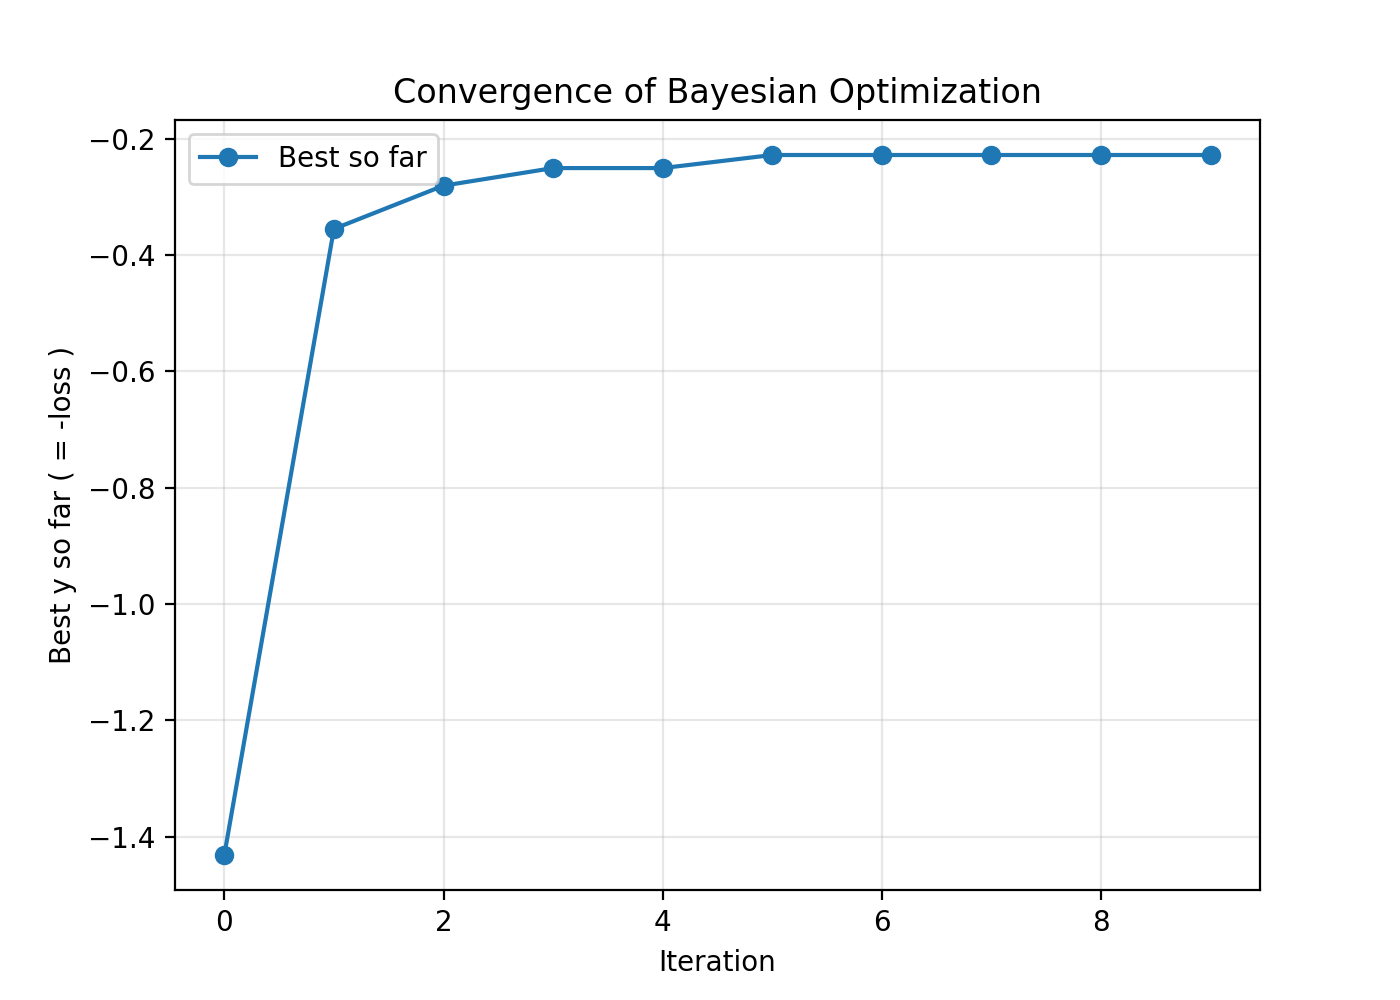
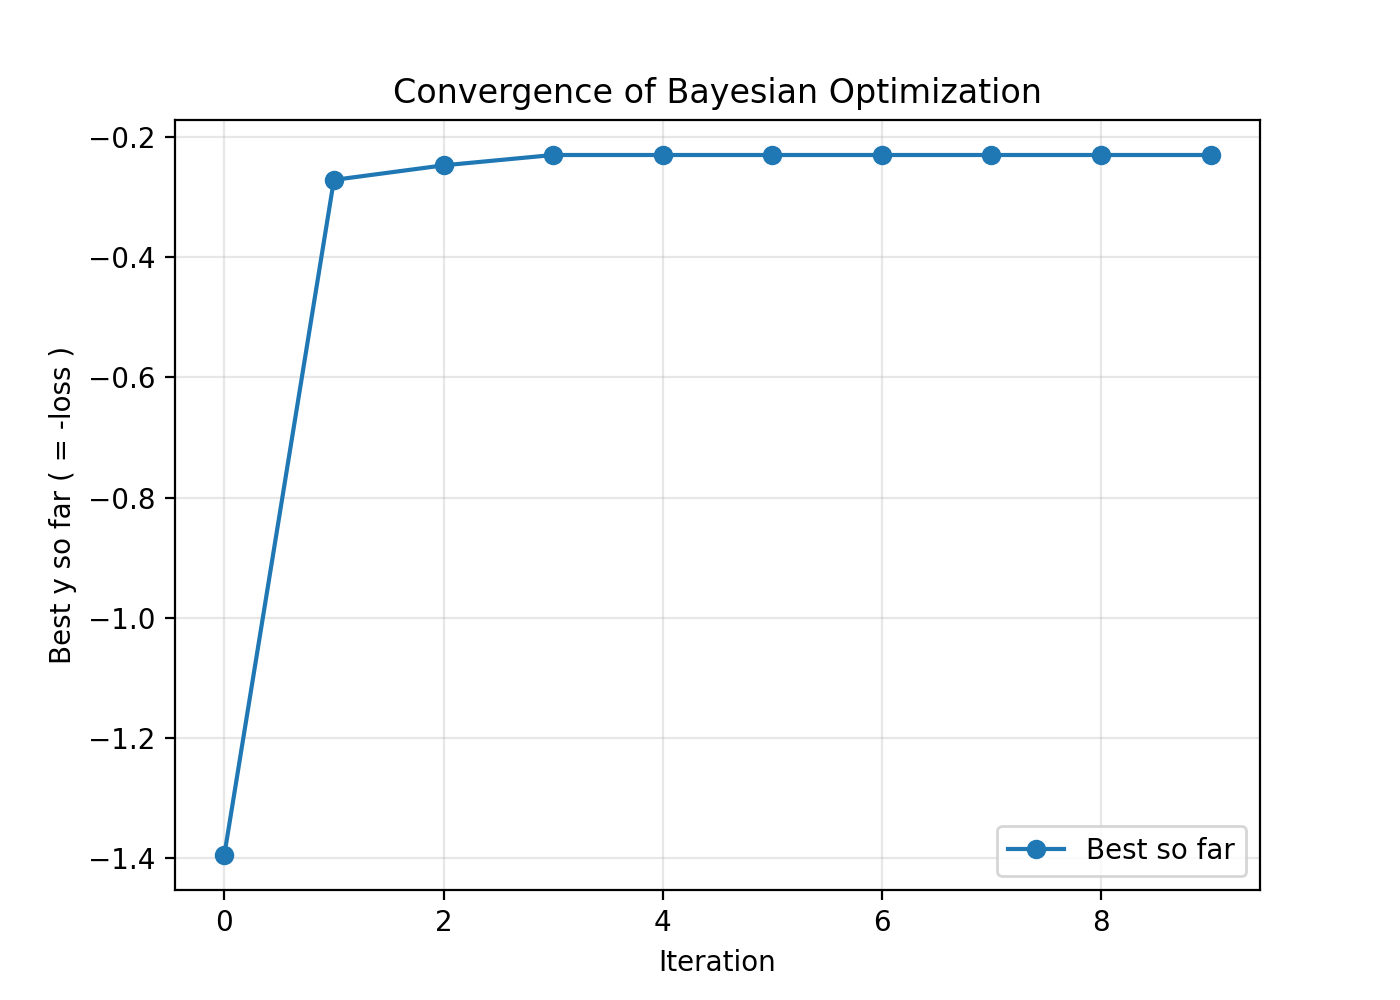
experiment runthrough

diff --git a/README.md b/README.md
@@ -50,14 +50,17 @@ project_root/
 ├── conf/
 │   └── config.yaml            # experiment settings (bounds, epochs, seeds, device, ...)
 │
+├── data/                      # downloaded fashionmnist dataset
+│
 ├── results/
 │   └── experiment/                # plots + logs for each seed with an epoch of 10 for 5 different seeds
 │        └── bo_results.json     # includes the results per seed. (best learning rate, best loss)
 │        └── **_all_iterations.png     # includes the graphs for each bayesian optimization. 
-│        └── **_epoch_losses.png     # Loss per epoch
 │        └── **_iterationvsbestsofar.png     # best loss per iteration of the bo.
 │
-└── README.md
+├── README.md
+├── requirements.txt          # include the packages that has been used
+└── .gitignore    # gitignore
 ```
 
 ## Methods 
@@ -95,7 +98,7 @@ n_total: 2
 n_sobol: 1    
 bound:
   low: 1e-4
-  high: 1e-1
+  high: 3e-1
 
 
 
@@ -115,9 +118,9 @@ Although Bayesian Optimization successfully adapts its acquisition function and 
 
 - Sobol initialization strongly influences the outcome:
   Each seed produces a different Sobol sequence, leading to different initial evaluations and therefore different optimization trajectories.
-- 3 of 5 results of different seeds have the best learning rate of 0.1. That is the upper bound.
+- 2 of 5 results of different seeds have the best learning rate of 0.3. That is the upper bound.
   This indicates that the optimal region may lie beyond the current bound.
-- The remaining two seeds exhibit noisy behavior and high posterior uncertainty.
+- The remaining three seeds exhibit noisy behavior and high posterior uncertainty.
   It suggests that the number of evaluations may be too small to stabilize the surrogate function.
 
 To improve the stability and quality of the optimization results, I would recommend the following:
@@ -127,7 +130,7 @@ To improve the stability and quality of the optimization results, I would recomm
 - Experiment with different GP kernels
   So far, only a single kernel (Constant × RBF) has been applied.
   Alternatives may capture the shape of the loss landscape better.
-- Expand the learning-rate bound
+- Expand the learning-rate bound.
 - Adjust the WEI α parameter.
   With balancing the exploration and exploitation it may stabilize the optimization.
 
